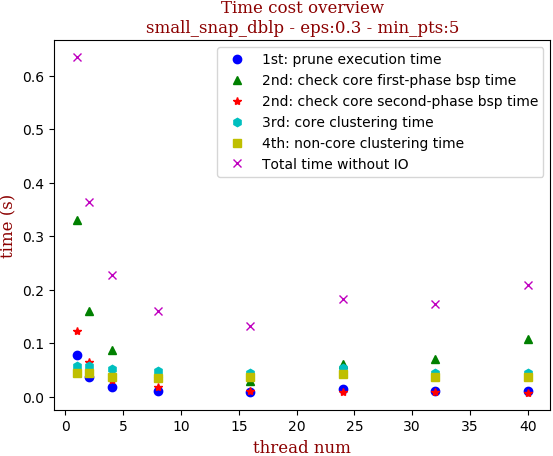
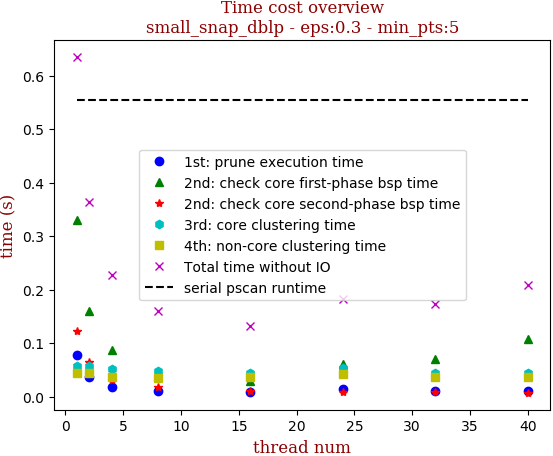
add pscan serial runtime in overview figure

diff --git a/python_experiments/scalability_figure.py b/python_experiments/scalability_figure.py
@@ -2,6 +2,7 @@ import matplotlib.pyplot as plt
 import sys
 import os
 from functools import partial
+import workload_figure
 
 # total time tag, and five separate time tag: first three parallel, last two serial
 total_time_tag = 'Total time without IO'
@@ -10,6 +11,8 @@ first_bsp_time_tag = '2nd: check core first-phase bsp time'
 second_bsp_time_tag = '2nd: check core second-phase bsp time'
 core_cluster_time_tag = '3rd: core clustering time'
 non_core_cluster_time_tag = '4th: non-core clustering time'
+
+pscan_runtime_tag = 'serial pscan runtime'
 
 
 def parse_line(line):
@@ -41,19 +44,25 @@ def parse_lines(lines):
 def get_statistics(dataset, eps, min_pts, root_folder='.'):
     info_dict = dict()
     dir_path = os.sep.join([root_folder, 'scalability', dataset, 'eps-' + str(eps), 'min_pts-' + str(min_pts)])
+    pscan_time = workload_figure.get_statistics(data_set, eps, min_pts, root_folder + os.sep + 'worklaod')[
+        workload_figure.runtime_tag + workload_figure.pscan_tag]
+    pscan_plus_runtime = workload_figure.get_statistics(data_set, eps, min_pts, root_folder + os.sep + 'worklaod')[
+        workload_figure.runtime_tag + workload_figure.pscan_plus_tag]
+
     for root, dirs, files in os.walk(dir_path):
         for file in files:
             with open(dir_path + os.sep + file) as ifs:
                 lines = ifs.readlines()
                 thread_num = int(file.split('-')[-1][:-(len('.txt'))])
                 info_dict[thread_num] = parse_lines(lines)
+                info_dict[thread_num][pscan_runtime_tag] = pscan_time
     return info_dict
 
 
 # display 0: overall time cost in five phases
 def display_overview(statistics_dic, title_append_txt=''):
     tag_list = [prune_time_tag, first_bsp_time_tag, second_bsp_time_tag, core_cluster_time_tag,
-                non_core_cluster_time_tag, total_time_tag]
+                non_core_cluster_time_tag, total_time_tag, pscan_runtime_tag]
 
     def post_process():
         sorted_info_lst = sorted(statistics_dic.items(), key=lambda pair: pair[0])
@@ -68,7 +77,7 @@ def display_overview(statistics_dic, title_append_txt=''):
 
     # draw after get data, with partial binding technique
     thread_lst, time_lst_lst = post_process()
-    shape_color_lst = ['bo', 'g^', 'r*', 'ch', 'ys', 'mx']
+    shape_color_lst = ['bo', 'g^', 'r*', 'ch', 'ys', 'mx', 'k--']
     prev_partial_func = plt.plot
     cur_shape_color_idx = 0
     for time_lst in time_lst_lst:

diff --git a/python_experiments/workload_figure.py b/python_experiments/workload_figure.py
@@ -24,7 +24,12 @@ def filter_lines_by_tag(tag, lines):
                filter(lambda line: tag in line, lines))
 
 
-def get_statistics(lines):
+def get_statistics(dataset, eps, min_pts, root_dir_path='.'):
+    file_path = os.sep.join([root_dir_path, dataset, 'eps-' + str(eps), 'min_pts-' + str(min_pts),
+                             '-'.join(['output', dataset, str(eps), str(min_pts)]) + '.txt'])
+    with open(file_path) as ifs:
+        lines = ifs.readlines()
+
     tag_lst = [prune0_tag, prune1_tag, intersect_tag, cmp0_tag, cmp1_tag, cmp_equ_tag]
     statistics_lst_dict = dict(map(lambda tag: (tag, filter_lines_by_tag(tag, lines)), tag_lst))
     # runtime unit: ms
@@ -58,9 +63,5 @@ if __name__ == '__main__':
     min_pts = 5
     root_dir_path = '/mnt/mount-gpu/d2/yche/projects/python_experiments/worklaod'
     for data_set in data_set_lst:
-        file_path = os.sep.join([root_dir_path, data_set, 'eps-' + str(eps), 'min_pts-' + str(min_pts),
-                                 '-'.join(['output', data_set, str(eps), str(min_pts)]) + '.txt'])
-        with open(file_path) as ifs:
-            lines = ifs.readlines()
-            ret_dict = get_statistics(lines)
-            print ret_dict
+        ret_dict = get_statistics(data_set, eps, min_pts, root_dir_path)
+        print ret_dict
